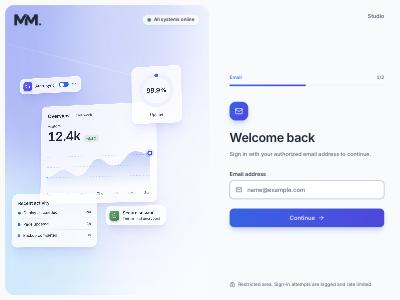
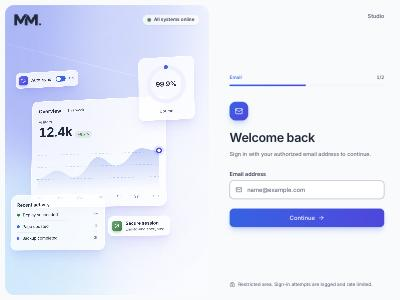
Studio login: bigger illustration
The widget cluster fills the whole brand panel (logo row overlaid), the
panel is 1.6fr from xl, and the main cards are larger.

diff --git a/src/components/studio/login/WidgetCluster.tsx b/src/components/studio/login/WidgetCluster.tsx
@@ -266,19 +266,19 @@ export const WidgetCluster = ({ labels, className }: { labels: Labels; className
       <div className="relative aspect-square perspective-[1800px]">
         <div className="absolute top-[78%] left-[14%] h-[12%] w-[72%] rounded-[50%] bg-aurora-indigo/15 blur-3xl" />
         <motion.div className="absolute inset-0 transform-3d" style={{ rotateX, rotateY }}>
-          <Floating className="top-[21%] left-[13%] w-[64%]" z={0} bob={6} delay={0.1} still={still}>
+          <Floating className="top-[19%] left-[9%] w-[72%]" z={0} bob={6} delay={0.1} still={still}>
             <OverviewCard labels={labels.overview} still={still} />
           </Floating>
-          <Floating className="top-[6%] left-[66%] w-[26%]" z={70} bob={9} delay={0.3} still={still}>
+          <Floating className="top-[3%] left-[69%] w-[28%]" z={70} bob={9} delay={0.3} still={still}>
             <UptimeCard labels={labels.uptime} still={still} />
           </Floating>
-          <Floating className="top-[7%] left-[3%]" z={40} bob={7} delay={0.45} still={still}>
+          <Floating className="top-[5%] left-[2%]" z={40} bob={7} delay={0.45} still={still}>
             <ToggleChip labels={labels.toggle} still={still} />
           </Floating>
-          <Floating className="top-[71%] left-[1%] w-[46%]" z={55} bob={8} delay={0.6} still={still}>
+          <Floating className="top-[70%] left-[2%] w-[49%]" z={55} bob={8} delay={0.6} still={still}>
             <ActivityCard labels={labels.activity} still={still} />
           </Floating>
-          <Floating className="top-[79%] left-[53%]" z={85} bob={10} delay={0.75} still={still}>
+          <Floating className="top-[83%] left-[54%]" z={85} bob={10} delay={0.75} still={still}>
             <SecurityBadge labels={labels.security} />
           </Floating>
         </motion.div>

diff --git a/src/components/studio/login/LoginShowcase.tsx b/src/components/studio/login/LoginShowcase.tsx
@@ -31,16 +31,21 @@ export const LoginShowcase = ({ showcase }: ShowcaseProps) => {
   });
 
   return (
-    <aside className="relative isolate m-3 hidden flex-col gap-4 overflow-hidden rounded-3xl border border-card p-6 lg:flex xl:p-8">
+    <aside className="relative isolate m-3 hidden overflow-hidden rounded-3xl border border-card lg:block">
       <AuroraBackdrop />
-      <motion.div className="flex items-center justify-between gap-4" {...rise(0)}>
+      {/* The illustration takes the whole panel; the logo row floats over its top edge. */}
+      <motion.div
+        className="[container-type:size] absolute inset-0 grid place-items-center px-4 pt-14 pb-3 xl:pt-16"
+        {...rise(0.1)}
+      >
+        <WidgetCluster labels={showcase.illustration} className="w-[min(100cqw,100cqh)]" />
+      </motion.div>
+      <motion.div
+        className="pointer-events-none absolute inset-x-0 top-0 z-10 flex items-center justify-between gap-4 p-6 xl:px-8"
+        {...rise(0)}
+      >
         <Monogram dot="letter" className="h-7 w-auto text-foreground" />
         <StatusPill label={showcase.status} />
-      </motion.div>
-
-      {/* Sized by the space left: as wide as the panel, or as tall as it, whichever is smaller. */}
-      <motion.div className="[container-type:size] grid min-h-0 flex-1 place-items-center" {...rise(0.1)}>
-        <WidgetCluster labels={showcase.illustration} className="w-[min(100cqw,100cqh)]" />
       </motion.div>
     </aside>
   );

diff --git a/src/app/studio/login/page.tsx b/src/app/studio/login/page.tsx
@@ -54,7 +54,7 @@ export default async function StudioLoginPage({ searchParams }: PageProps<"/stud
   return (
     <main
       data-studio-theme="light"
-      className="grid min-h-svh bg-background lg:grid-cols-[minmax(0,1.15fr)_minmax(0,1fr)] xl:grid-cols-[minmax(0,1.45fr)_minmax(0,1fr)]"
+      className="grid min-h-svh bg-background lg:grid-cols-[minmax(0,1.15fr)_minmax(0,1fr)] xl:grid-cols-[minmax(0,1.6fr)_minmax(0,1fr)]"
     >
       <BodyScope theme="light" />
       <LoginShowcase showcase={content.showcase} />

diff --git a/docs/ADMIN_STYLE.md b/docs/ADMIN_STYLE.md
@@ -82,7 +82,7 @@ Names follow the shadcn/ui convention, so shadcn components work without edits. 
 - Cards: `rounded-xl`, 1px `border`, `shadow-sm`, internal padding 24px (`px-6`, `py-6`), 24px between groups.
 - Controls: `rounded-md`; inputs and buttons `h-10` in forms (`h-9` in dense tables later).
 - Focus: a 3px `ring/50` halo plus a `ring` border on every interactive element (`focus-visible`).
-- **Auth layout: split screen, light only.** `lg` and up: two columns (`1.15fr / 1fr`, `1.45fr / 1fr` from `xl`). Left, an inset (`m-3 rounded-3xl`) brand panel with a **light gradient shade** (mist base, periwinkle top-left, lavender top, sky bottom-left, washing to white at the bottom right, two faint diagonal light streaks), a **labelled glass widget cluster** in gently tilted 3D (an Overview card with a visitor count, delta badge, gradient area chart and day labels; an uptime ring; a recent-activity list; an auto-sync toggle chip; a secure-session badge), sized to fill the panel. Labels are generic UI copy from the database, never real data or feature names. Right, the form in a 400px column. Below `lg`: a compact gradient band on top, the form below.
+- **Auth layout: split screen, light only.** `lg` and up: two columns (`1.15fr / 1fr`, `1.6fr / 1fr` from `xl`). The illustration fills the whole brand panel; the logo row floats over its top edge. Left, an inset (`m-3 rounded-3xl`) brand panel with a **light gradient shade** (mist base, periwinkle top-left, lavender top, sky bottom-left, washing to white at the bottom right, two faint diagonal light streaks), a **labelled glass widget cluster** in gently tilted 3D (an Overview card with a visitor count, delta badge, gradient area chart and day labels; an uptime ring; a recent-activity list; an auto-sync toggle chip; a secure-session badge), sized to fill the panel. Labels are generic UI copy from the database, never real data or feature names. Right, the form in a 400px column. Below `lg`: a compact gradient band on top, the form below.
 - Glass surfaces (`bg-card/80`, `border-card`, `backdrop-blur-xl`) only sit on the gradient panel.
 
 ## 5. Components (shadcn/ui)

diff --git a/docs/screens/STUDIO_LOGIN_BUSINESS.md b/docs/screens/STUDIO_LOGIN_BUSINESS.md
@@ -45,7 +45,7 @@ The same limits are enforced again on the server (`src/lib/shared/auth/login-inp
 ## 5. Layout and motion
 
 - **Split screen** from `lg`, **light only** (pinned with `data-studio-theme="light"`, so it stays light when the OS is dark).
-- Left: a light gradient brand panel (periwinkle, lavender and sky shades drifting) with the monogram and status pill on top and a labelled glass widget cluster filling the rest (overview chart card, uptime ring, activity list, auto-sync chip, secure-session badge). The panel is wider on large screens (`1.15fr`, `1.45fr` from `xl`). Right: the form in a 400px column with the brand name top-right and the security note at the bottom.
+- Left: a light gradient brand panel (periwinkle, lavender and sky shades drifting) with the monogram and status pill on top and a labelled glass widget cluster filling the rest (overview chart card, uptime ring, activity list, auto-sync chip, secure-session badge). The illustration fills the whole panel (the logo row floats over it), and the panel is wider on large screens (`1.15fr`, `1.6fr` from `xl`). Right: the form in a 400px column with the brand name top-right and the security note at the bottom.
 - Below `lg`: a compact gradient band (monogram, status) above the form.
 - A segmented progress bar (current step name and `1/2`) shows progress; each step has an icon tile (mail, key) above its title; steps fade and slide 24px (0.28s); alerts expand and collapse; the button shows a spinner while busy and a check on success.
 - **Code boxes.** When `ADMIN_ACCESS_CODE` is 4–8 digits, the page renders one box per digit (the count comes from the server). This shows the code's length, which the lockout makes an acceptable trade for faster entry. Any other code format gets a single masked field instead.

diff --git a/docs/progress.md b/docs/progress.md
@@ -245,6 +245,10 @@ Verified with a production build (`next start`) connected to Atlas:
 - [x] Fixed: SVG gradient stops ignored CSS variables in the `stopColor` attribute; they're set through `style` now.
 - [x] No scroll and no widget outside the panel at 1440×900, 1280×720 and 1024×768.
 
+## 2026-11-23: Bigger login illustration
+
+- [x] The widget cluster now uses the whole brand panel (logo row overlaid instead of stacked), the panel is `1.6fr` from `xl`, and the Overview, uptime and activity cards are larger. About 800px wide at 1440×900 (was about 720px). No scroll at 1440×900, 1280×720 and 1024×768.
+
 ## Open items
 
 - [ ] Set the real upgrade window: `timeline.windowStart` and `timeline.targetAt` currently hold a placeholder of 22 Nov → 31 Dec 2026 UTC.
